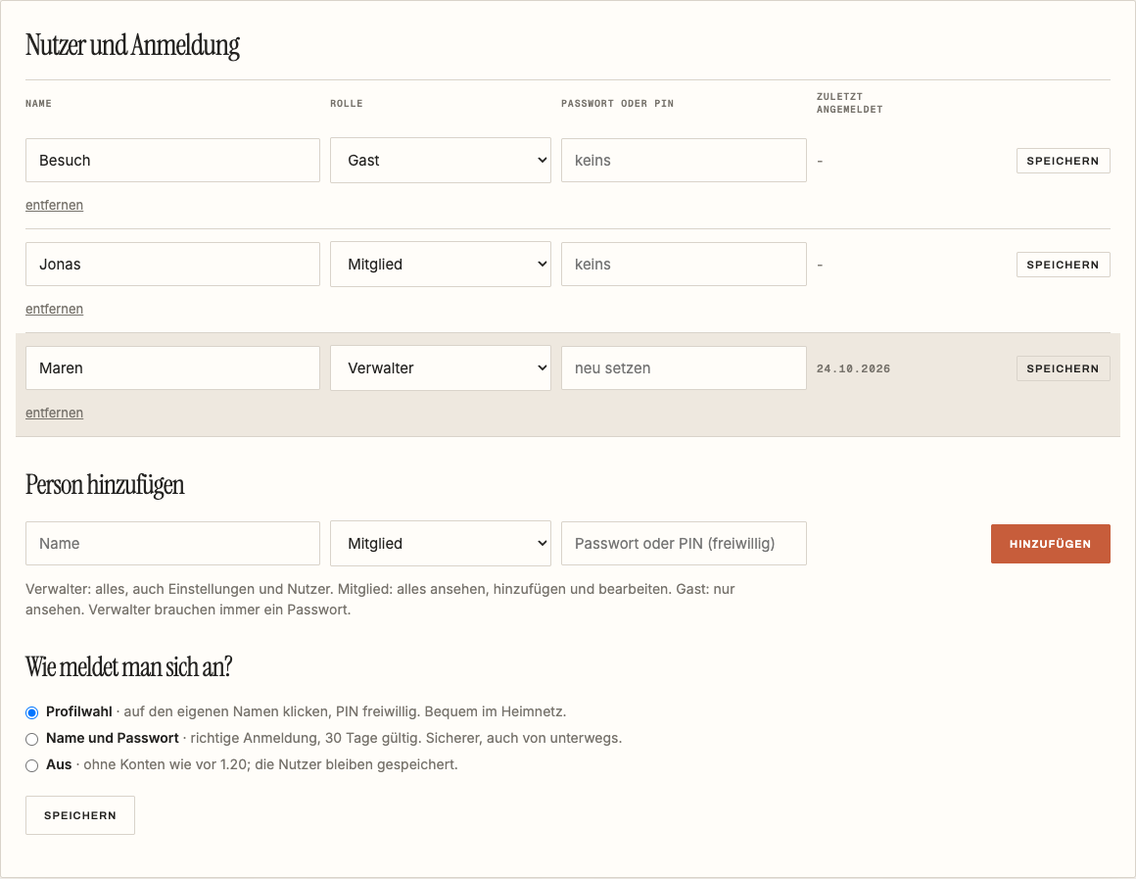
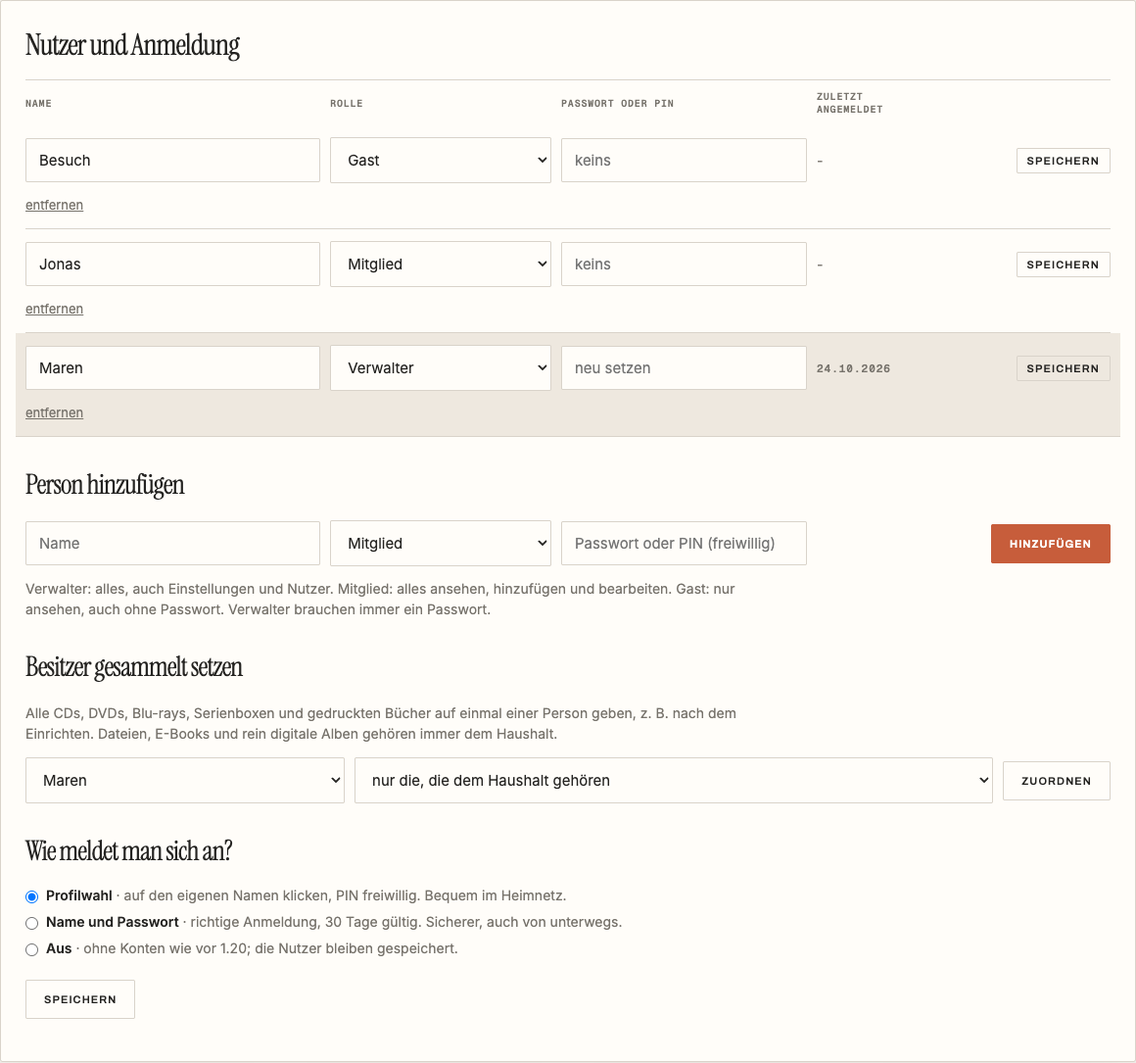
MediaDB 1.22.2 – Besitzer nur bei Physischem, Gast ohne Passwort
Besitzer gibt es nur noch bei CD, DVD, Blu-ray, 4K, Serienbox und
gedrucktem Buch; Dateien, E-Books und rein digitale Alben gehören dem
Haushalt (einmalige Umstellung beim Start). Neuer Bereich „Besitzer
gesammelt setzen“ in den Einstellungen. Gäste ohne Passwort auch bei
„Name und Passwort“ (Knopf auf der Anmeldeseite, nur lesen).

diff --git a/app/templates/settings.html b/app/templates/settings.html
@@ -138,7 +138,7 @@ S.querySelectorAll('.nasfrom').forEach(function(sel){sel.onchange=function(){var
 
 <section class="card settings" id="nutzer">
  <h2>{{ _("Nutzer und Anmeldung") }}</h2>
- {% if message and part == 'users' %}<div class="{{ 'ok' if message in ('Gespeichert.', 'Nutzer hinzugefügt.', 'Nutzer entfernt.', 'Konten eingeschaltet. Du bist als Verwalter angemeldet.') else 'warn' }}">{{ _(message) }}</div>{% endif %}
+ {% if message and part == 'users' %}<div class="{{ 'ok' if message in ('Gespeichert.', 'Nutzer hinzugefügt.', 'Nutzer entfernt.', 'Konten eingeschaltet. Du bist als Verwalter angemeldet.', 'Besitzer gespeichert.') else 'warn' }}">{{ _(message) }}</div>{% endif %}
  {% if not people %}
  <p class="help">{{ _("Mehrere Personen im Haushalt? Lege dich zuerst selbst als Verwalter an. Danach fügst du weitere Personen hinzu (Mitglied oder Gast) und wählst, wie man sich anmeldet. Die Sammlung bleibt, wie sie ist; alle sehen weiterhin alles.") }}</p>
  <form method="post" action="{{ base }}/settings/users/setup" class="userform">
@@ -159,12 +159,12 @@ S.querySelectorAll('.nasfrom').forEach(function(sel){sel.onchange=function(){var
     <select name="role" aria-label="{{ _('Rolle') }}">{% for r, l in ROLES.items() %}<option value="{{ r }}"{% if r == p.role %} selected{% endif %}>{{ _(l) }}</option>{% endfor %}</select>
     <input name="password" type="password" placeholder="{{ _('neu setzen') if p.secret else _('keins') }}" aria-label="{{ _('Passwort oder PIN') }}" autocomplete="new-password">
     <span class="muted">{{ p.last_login|fdate if p.last_login else '–' }}</span>
-    <span class="rowbtns">{% if p.secret and p.role != 'admin' and accounts_mode != 'password' %}<label class="checkbox"><input type="checkbox" name="remove_pw" value="1"> {{ _("PIN entfernen") }}</label>{% endif %}<button class="quiet small">{{ _("Speichern") }}</button></span>
+    <span class="rowbtns">{% if p.secret and p.role != 'admin' and (accounts_mode != 'password' or p.role == 'guest') %}<label class="checkbox"><input type="checkbox" name="remove_pw" value="1"> {{ _("PIN entfernen") }}</label>{% endif %}<button class="quiet small">{{ _("Speichern") }}</button></span>
    </form>
    <form method="post" action="{{ base }}/settings/users/{{ p.id }}/delete" class="userdel" onsubmit="return confirm({{ _t('§ entfernen? Die Sammlung bleibt unverändert.', p.name)|tojson|forceescape }})"><button class="linkbtn">{{ _("entfernen") }}</button></form>
   </div>{% endfor %}
  </div>
- {% set nopw = people|rejectattr('secret')|map(attribute='name')|list %}
+ {% set nopw = people|rejectattr('secret')|rejectattr('role', 'equalto', 'guest')|map(attribute='name')|list %}
  {% if accounts_mode == 'password' and nopw %}<div class="warn">{{ _("Ohne Passwort können sich bei „Name und Passwort“ nicht anmelden: §", nopw|join(', ')) }}</div>{% endif %}
  {% if accounts_mode == 'profiles' and public and nopw %}<p class="hint">{{ _("Zugriff aus dem Internet ist erlaubt: Von dort brauchen alle eine PIN. Profile ohne PIN gehen nur im Heimnetz.") }}</p>{% endif %}
  <h3>{{ _("Person hinzufügen") }}</h3>
@@ -174,7 +174,14 @@ S.querySelectorAll('.nasfrom').forEach(function(sel){sel.onchange=function(){var
   <input name="password" type="password" placeholder="{{ _('Passwort oder PIN') }}{% if accounts_mode != 'password' %} {{ _('(freiwillig)') }}{% endif %}" aria-label="{{ _('Passwort oder PIN') }}" autocomplete="new-password">
   <button>{{ _("Hinzufügen") }}</button>
  </form>
- <p class="help">{{ _("Verwalter: alles, auch Einstellungen und Nutzer. Mitglied: alles ansehen, hinzufügen und bearbeiten. Gast: nur ansehen. Verwalter brauchen immer ein Passwort.") }}</p>
+ <p class="help">{{ _("Verwalter: alles, auch Einstellungen und Nutzer. Mitglied: alles ansehen, hinzufügen und bearbeiten. Gast: nur ansehen, auch ohne Passwort. Verwalter brauchen immer ein Passwort.") }}</p>
+ <h3>{{ _("Besitzer gesammelt setzen") }}</h3>
+ <p class="help">{{ _("Alle CDs, DVDs, Blu-rays, Serienboxen und gedruckten Bücher auf einmal einer Person geben, z. B. nach dem Einrichten. Dateien, E-Books und rein digitale Alben gehören immer dem Haushalt.") }}</p>
+ <form method="post" action="{{ base }}/settings/users/assign" class="assignrow" onsubmit="return confirm({{ _t('Besitzer für alle gewählten Exemplare ändern?')|tojson|forceescape }})">
+  <select name="owner" aria-label="{{ _('Besitzer') }}">{% for p in people if p.role != 'guest' %}<option value="{{ p.id }}"{% if me and me.id == p.id %} selected{% endif %}>{{ p.name }}</option>{% endfor %}</select>
+  <select name="scope" aria-label="{{ _('Welche Exemplare') }}"><option value="unowned">{{ _("nur die, die dem Haushalt gehören") }}</option><option value="all">{{ _("alle, auch die schon jemandem gehören") }}</option></select>
+  <button class="quiet">{{ _("Zuordnen") }}</button>
+ </form>
  <h3>{{ _("Wie meldet man sich an?") }}</h3>
  <form method="post" action="{{ base }}/settings/users/mode" class="modepick">
   <label class="checkbox"><input type="radio" name="mode" value="profiles"{% if accounts_mode == 'profiles' %} checked{% endif %}> <span><strong>{{ _("Profilwahl") }}</strong> · {{ _("auf den eigenen Namen klicken, PIN freiwillig. Bequem im Heimnetz.") }}</span></label>

diff --git a/app/templates/detail.html b/app/templates/detail.html
@@ -1,1 +1,1 @@
-{% extends 'base.html' %}{% from '_owner.html' import owner_pick with context %}{% from '_next.html' import next_btn with context %}{% from '_lend.html' import lend_box with context %}{% block content %}<p class="eyebrow">{{ _("MediaDB / Archiv") }} · <a href="{{ base }}/media?l={{ back_l|urlencode }}">{{ _("← Interpreten §", back_l) }}</a></p>{% if message %}<div class="ok">{{ _(message) }}</div>{% endif %}<div class="detailgrid"><div>{% if item.cover_path %}<img class="cover" src="{{ base }}/covers/{{item.cover_path}}" alt="Cover {{item.title}}">{% else %}<div class="cover ph">{{ _("Kein Cover") }}</div>{% endif %}<div class="actions"><form method="post" action="{{ base }}/media/{{item.id}}/refresh"><button>{{ _("Von MusicBrainz aktualisieren") }}</button></form><form method="post" action="{{ base }}/media/{{item.id}}/cover"><button>{{ _("Cover neu laden") }}</button></form><form method="get" action="{{ base }}/media/{{item.id}}/match"><button>{{ _("Ähnliche Ausgabe suchen") }}</button></form></div></div><div>{% if item.artist %}<h1>{{item.artist}}</h1><h2 class="subtitle">{{item.title}}</h2>{% else %}<h1>{{item.title}}</h1>{% endif %}{{ next_btn('music', item.id, music_next_at(item)) }}<dl class="facts">{% for label,val in [('Besitz',_(OWN.get(item.ownership or 'cd'))),('Dateiformate',item.file_formats),('Jahr (CD)',item.year),('Erschienen',item.release_date),('Label',item.label),('Katalognr.',item.catalog_number),('Format',item.format),('Land',item.country),('Genre',item.genre),('Styles',item.styles),('Barcode',item.barcode)] if val %}<dt>{{ _(label) }}</dt><dd>{{val}}</dd>{% endfor %}</dl>{% if accounts_on %}<p class="ownerline"><span class="muted">{{ _("Besitzer") }}</span> {{ owner_pick(base ~ '/media/' ~ item.id ~ '/owner', item.owner_id) }}</p>{% endif %}{{ lend_box('music', item.id, item.title, item.artist) }}<h2>{{ _("Tracks") }}</h2><ol>{% for t in item.tracks %}<li>{{t.title}}{% if t.duration %} ({{t.duration}}){% endif %}</li>{% else %}<li>{{ _("Keine Trackliste") }}</li>{% endfor %}</ol>{% if item.notes %}<p>{{item.notes}}</p>{% endif %}<div class="actions"><form method="get" action="{{ base }}/media/{{item.id}}/edit"><button>{{ _("Bearbeiten") }}</button></form><form method="post" action="{{ base }}/media/{{item.id}}/delete" onsubmit="return confirm({{ _('Eintrag wirklich löschen?')|tojson|forceescape }})"><button>{{ _("Löschen") }}</button></form></div></div></div>{% endblock %}
+{% extends 'base.html' %}{% from '_owner.html' import owner_pick with context %}{% from '_next.html' import next_btn with context %}{% from '_lend.html' import lend_box with context %}{% block content %}<p class="eyebrow">{{ _("MediaDB / Archiv") }} · <a href="{{ base }}/media?l={{ back_l|urlencode }}">{{ _("← Interpreten §", back_l) }}</a></p>{% if message %}<div class="ok">{{ _(message) }}</div>{% endif %}<div class="detailgrid"><div>{% if item.cover_path %}<img class="cover" src="{{ base }}/covers/{{item.cover_path}}" alt="Cover {{item.title}}">{% else %}<div class="cover ph">{{ _("Kein Cover") }}</div>{% endif %}<div class="actions"><form method="post" action="{{ base }}/media/{{item.id}}/refresh"><button>{{ _("Von MusicBrainz aktualisieren") }}</button></form><form method="post" action="{{ base }}/media/{{item.id}}/cover"><button>{{ _("Cover neu laden") }}</button></form><form method="get" action="{{ base }}/media/{{item.id}}/match"><button>{{ _("Ähnliche Ausgabe suchen") }}</button></form></div></div><div>{% if item.artist %}<h1>{{item.artist}}</h1><h2 class="subtitle">{{item.title}}</h2>{% else %}<h1>{{item.title}}</h1>{% endif %}{{ next_btn('music', item.id, music_next_at(item)) }}<dl class="facts">{% for label,val in [('Besitz',_(OWN.get(item.ownership or 'cd'))),('Dateiformate',item.file_formats),('Jahr (CD)',item.year),('Erschienen',item.release_date),('Label',item.label),('Katalognr.',item.catalog_number),('Format',item.format),('Land',item.country),('Genre',item.genre),('Styles',item.styles),('Barcode',item.barcode)] if val %}<dt>{{ _(label) }}</dt><dd>{{val}}</dd>{% endfor %}</dl>{% if accounts_on and (item.ownership or 'cd') in ('cd', 'cd_digital') %}<p class="ownerline"><span class="muted">{{ _("Besitzer") }}</span> {{ owner_pick(base ~ '/media/' ~ item.id ~ '/owner', item.owner_id) }}</p>{% endif %}{{ lend_box('music', item.id, item.title, item.artist) }}<h2>{{ _("Tracks") }}</h2><ol>{% for t in item.tracks %}<li>{{t.title}}{% if t.duration %} ({{t.duration}}){% endif %}</li>{% else %}<li>{{ _("Keine Trackliste") }}</li>{% endfor %}</ol>{% if item.notes %}<p>{{item.notes}}</p>{% endif %}<div class="actions"><form method="get" action="{{ base }}/media/{{item.id}}/edit"><button>{{ _("Bearbeiten") }}</button></form><form method="post" action="{{ base }}/media/{{item.id}}/delete" onsubmit="return confirm({{ _('Eintrag wirklich löschen?')|tojson|forceescape }})"><button>{{ _("Löschen") }}</button></form></div></div></div>{% endblock %}

diff --git a/app/templates/films_detail.html b/app/templates/films_detail.html
@@ -55,7 +55,7 @@
 {% for k in copies %}<tr><td><span class="badge">{{ _(kinds.get(k.kind, k.kind)) }}</span></td><td>{{ k.edition or '' }}{% if k.region %} <span class="muted">{{ k.region }}</span>{% endif %}</td>
 <td>{% if k.path %}<code class="path">{{ k.path }}</code>{% elif k.barcode %}<code>{{ k.barcode }}</code>{% endif %}{% if k.notes %}<br><span class="muted">{{ k.notes }}</span>{% endif %}</td>
 <td class="tech">{{ [k.resolution, k.hdr, k.video_codec, k.container, ((k.duration_s//60)|string ~ ' min') if k.duration_s else '', ((k.size_bytes/1073741824)|round(1)|string ~ ' GB') if k.size_bytes and k.size_bytes > 100000000 else '']|select|join(' · ') }}{% if k.audio %}<br><span class="muted">{{ _("Ton:") }} {{ k.audio }}</span>{% endif %}{% if k.subtitles %}<br><span class="muted">{{ _("Untertitel:") }} {{ k.subtitles }}</span>{% endif %}</td>
-{% if accounts_on %}<td>{{ owner_pick(base ~ '/films/copies/' ~ k.id ~ '/owner', k.owner_id) }}</td>{% endif %}
+{% if accounts_on %}<td>{% if k.kind != 'file' and not k.path %}{{ owner_pick(base ~ '/films/copies/' ~ k.id ~ '/owner', k.owner_id) }}{% else %}<span class="muted small">{{ _("Haushalt") }}</span>{% endif %}</td>{% endif %}
 <td><form method="post" action="{{ base }}/films/copies/{{ k.id }}/delete" onsubmit="return confirm({{ _t('Exemplar entfernen?')|tojson|forceescape }})"><button class="quiet small">{{ _("entfernen") }}</button></form></td></tr>{% endfor %}</table></div>
 {% else %}<p class="muted">{{ _("Noch kein Exemplar eingetragen.") }}</p>{% endif %}
 <details class="card"><summary>{{ _("Exemplar hinzufügen") }}</summary>

diff --git a/app/templates/books_detail.html b/app/templates/books_detail.html
@@ -67,7 +67,7 @@
 <h2 id="exemplare">{{ _("Exemplare") }}</h2>
 {% if copies %}<div class="tablewrap"><table class="copies">{% for k in copies %}<tr><td><span class="badge">{{ _(kinds.get(k.kind,k.kind)) }}</span>{% if k.file_format %} <span class="badge">{{ k.file_format }}</span>{% endif %}</td>
 <td>{% if k.path %}<code class="path">{{ host_label(k.path) }}</code>{% endif %}{% if k.isbn %}<code>{{ k.isbn|isbn }}</code>{% endif %} {{ k.edition or '' }}{% if k.duration_s %} · {{ k.duration_s|hours }}{% endif %}{% if k.size_bytes %} · {{ (k.size_bytes / 1048576)|round(1) }} MB{% endif %}</td>
-{% if accounts_on %}<td>{{ owner_pick(base ~ '/books/copies/' ~ k.id ~ '/owner', k.owner_id) }}</td>{% endif %}
+{% if accounts_on %}<td>{% if k.kind != 'ebook' and not k.path %}{{ owner_pick(base ~ '/books/copies/' ~ k.id ~ '/owner', k.owner_id) }}{% else %}<span class="muted small">{{ _("Haushalt") }}</span>{% endif %}</td>{% endif %}
 <td><form method="post" action="{{ base }}/books/copies/{{ k.id }}/delete" onsubmit="return confirm({{ _t('Exemplar entfernen?')|tojson|forceescape }})"><button class="quiet small">{{ _("entfernen") }}</button></form></td></tr>{% endfor %}</table></div>{% else %}<p class="muted">{{ _("Kein Exemplar eingetragen.") }}</p>{% endif %}
 <details class="card"><summary>{{ _("Exemplar hinzufügen") }}</summary>
 <form method="post" action="{{ base }}/books/{{ b.id }}/copies"><input type="hidden" name="anchor" value="exemplare">

diff --git a/app/templates/login.html b/app/templates/login.html
@@ -21,6 +21,7 @@
 <label>{{ _("Name") }}<input name="name" autocomplete="username" autofocus required></label>
 <label>{{ _("Passwort") }}<input type="password" name="password" autocomplete="current-password" required></label>
 <button>{{ _("Anmelden") }}</button></form>
+{% for g in people if g.role == 'guest' and not g.needs %}<form method="post" action="{{ base }}/login" class="guestlogin"><input type="hidden" name="uid" value="{{ g.id }}"><input type="hidden" name="next" value="{{ next }}"><button class="quiet">{{ _("Als „§“ ansehen, ohne Passwort (nur lesen)", g.name) }}</button></form>{% endfor %}
 {% else %}
 <h1>{{ _("*Anmelden*") }}</h1>
 <p class="intro">{{ _("Diese Sammlung ist mit einem Passwort geschützt.") }}</p>

diff --git a/static/style.css b/static/style.css
@@ -319,3 +319,5 @@ nav a.navhelp:not(.brand){display:inline-flex;align-items:center;justify-content
 .ownerpick{margin:0}.ownerpick select{margin:0;padding:6px 8px;font-size:13px;width:auto;min-width:9em}.ownername{display:none;font-size:13px}.guest .ownername{display:inline}
 .ownerline{display:flex;gap:12px;align-items:center;margin:14px 0}
 .seenby{margin:8px 0 0;text-transform:none;letter-spacing:0;font:400 13px Inter,sans-serif}
+.guestlogin{margin:18px 0 0}.guestlogin button{margin:0}
+.assignrow{display:grid;grid-template-columns:minmax(0,1fr) minmax(0,2fr) auto;gap:10px;align-items:center;margin:12px 0}.assignrow select,.assignrow button{margin:0}@media(max-width:700px){.assignrow{grid-template-columns:1fr}}

diff --git a/app/main.py b/app/main.py
@@ -27,7 +27,7 @@ engine=create_engine(DB_URL, connect_args={'check_same_thread':False,'timeout':1
 Session=sessionmaker(bind=engine); Base=declarative_base()
 class Medium(Base):
  __tablename__='media'
- id=Column(Integer,primary_key=True); barcode=Column(String,index=True,unique=True); title=Column(String,nullable=False); artist=Column(String); artist_sort=Column(String); artist_mbid=Column(String); year=Column(String); date=Column(String); release_date=Column(String); ownership=Column(String); file_formats=Column(String); country=Column(String); label=Column(String); catalog_number=Column(String); format=Column(String); media_count=Column(Integer); disc_count=Column(Integer); track_count=Column(Integer); status=Column(String); packaging=Column(String); language=Column(String); script=Column(String); release_mbid=Column(String); release_group_mbid=Column(String); release_group_type=Column(String); asin=Column(String); annotation=Column(Text); disambiguation=Column(String); quality=Column(String); genre=Column(Text); genres=Column(Text); tags=Column(Text); styles=Column(Text); notes=Column(Text); cover_path=Column(String); cover_url=Column(String); source=Column(String); source_id=Column(String); created_at=Column(DateTime,default=datetime.utcnow); raw_json=Column(Text); next_at=Column(String); owner_id=Column(Integer,default=lambda: users.current_id())  # next_at: "Als Naechstes" vorgemerkt am (seit 1.11); owner_id: Besitzer, leer = Haushalt (seit 1.21)
+ id=Column(Integer,primary_key=True); barcode=Column(String,index=True,unique=True); title=Column(String,nullable=False); artist=Column(String); artist_sort=Column(String); artist_mbid=Column(String); year=Column(String); date=Column(String); release_date=Column(String); ownership=Column(String); file_formats=Column(String); country=Column(String); label=Column(String); catalog_number=Column(String); format=Column(String); media_count=Column(Integer); disc_count=Column(Integer); track_count=Column(Integer); status=Column(String); packaging=Column(String); language=Column(String); script=Column(String); release_mbid=Column(String); release_group_mbid=Column(String); release_group_type=Column(String); asin=Column(String); annotation=Column(Text); disambiguation=Column(String); quality=Column(String); genre=Column(Text); genres=Column(Text); tags=Column(Text); styles=Column(Text); notes=Column(Text); cover_path=Column(String); cover_url=Column(String); source=Column(String); source_id=Column(String); created_at=Column(DateTime,default=datetime.utcnow); raw_json=Column(Text); next_at=Column(String); owner_id=Column(Integer,default=lambda ctx: users.current_id() if (ctx.get_current_parameters().get('ownership') or 'cd') in ('cd','cd_digital') else None)  # next_at: "Als Naechstes" vorgemerkt am (seit 1.11); owner_id: Besitzer, leer = Haushalt (seit 1.21)
  tracks=relationship('Track',back_populates='medium',cascade='all, delete-orphan',order_by='Track.disc_number,Track.position')
 class Track(Base):
  __tablename__='tracks'; id=Column(Integer,primary_key=True); medium_id=Column(Integer,ForeignKey('media.id')); position=Column(Integer); disc_number=Column(Integer); number=Column(String); title=Column(String); length_ms=Column(Integer); duration=Column(String); recording_mbid=Column(String); artist=Column(String); medium=relationship('Medium',back_populates='tracks')
@@ -686,8 +686,9 @@ def _safe_next(n):
  return n if n.startswith('/') and not n.startswith('//') and '\\' not in n else '/media'
 def _public(request): return bool(request.scope.get('state',{}).get('public'))
 def _needs_secret(u,request):
- """Bei der Profilwahl ist die PIN freiwillig, von oeffentlichen Adressen aber immer noetig."""
- return users.mode()=='password' or bool(u['secret']) or _public(request)
+ """Bei der Profilwahl ist die PIN freiwillig, von oeffentlichen Adressen aber immer noetig. Gaeste ohne Passwort kommen
+ auch bei "Name und Passwort" im Heimnetz ohne hinein (nur lesen)."""
+ return (users.mode()=='password' and u['role']!='guest') or bool(u['secret']) or _public(request)
 @app.get('/login',response_class=HTMLResponse)
 def login_page(request:Request,next:str='/media',error:str='',u:int=0):
  if users.accounts_on():
@@ -700,7 +701,8 @@ def login_page(request:Request,next:str='/media',error:str='',u:int=0):
 def login(request:Request,password:str=Form(''),next:str=Form('/media'),uid:int=Form(0),name:str=Form('')):
  nxt=_safe_next(next)
  if users.accounts_on():
-  if users.mode()=='profiles': u=users.get(uid)
+  guest=users.get(uid) if uid else None
+  if users.mode()=='profiles' or (guest and guest['role']=='guest'): u=users.get(uid)
   else: u=users.by_name(name)
   if not u or (_needs_secret(u,request) and not users.secret_ok(u,password)):
    time.sleep(1.5); return RedirectResponse('/login?'+urlencode({'next':nxt,'error':'1','u':uid or ''}),303)
@@ -1402,12 +1404,18 @@ def export(request:Request,view:str='all',format:str='xlsx'):
  for r in rows: ws.append(r)
  out=BytesIO(); wb.save(out); out.seek(0); return StreamingResponse(out,media_type='application/vnd.openxmlformats-officedocument.spreadsheetml.sheet',headers={'Content-Disposition':'attachment; filename=mediadb-musik.xlsx'})
 # ---------------- Besitzer (seit 1.21): beim ersten Verwalter gehoert ihm alles, was noch keinen Besitzer hat ----------------
-def _claim_owners(uid):
+def assign_physical(uid,only_unowned=True):
+ """Alle physischen Exemplare (CD, DVD, Blu-ray, 4K, Boxen, gedruckte Buecher) einer Person geben; only_unowned: nur die,
+ die noch dem Haushalt gehoeren. Offene Verleihvorgaenge ziehen mit. Liefert die Anzahl."""
  from . import films_db as _F, series_db as _S, books_db as _B, loans as _L
- for m in (_F,_S,_B):
-  with m.db() as c: c.execute('UPDATE copies SET owner_id=? WHERE owner_id IS NULL',(uid,))
- with _L.db() as c: c.execute('UPDATE loans SET owner_id=? WHERE owner_id IS NULL',(uid,))
- with engine.begin() as conn: conn.execute(text('UPDATE media SET owner_id=:u WHERE owner_id IS NULL'),{'u':uid})
+ cond='' if not only_unowned else ' AND owner_id IS NULL'; n=0
+ for m,phys in ((_F,"kind<>'file' AND path IS NULL"),(_S,'1'),(_B,"kind<>'ebook' AND path IS NULL")):
+  with m.db(plain=True) as c: n+=c.execute(f'UPDATE copies SET owner_id=? WHERE {phys}{cond}',(uid,)).rowcount
+ with engine.begin() as conn: n+=conn.execute(text(f"UPDATE media SET owner_id=:u WHERE ownership IN ('cd','cd_digital'){cond}"),{'u':uid}).rowcount
+ with _L.db() as c: c.execute('UPDATE loans SET owner_id=? WHERE returned_at IS NULL'+cond,(uid,))
+ return n
+users.ASSIGN_PHYSICAL=assign_physical
+def _claim_owners(uid): assign_physical(uid,True)
 def _claim_personal(uid):
  """Seit 1.22: bisherige Werte (gesehen, Bewertung, gelesen, Als Naechstes, Merkliste) werden die des ersten Verwalters."""
  from . import films_db as _F, series_db as _S, books_db as _B
@@ -1435,5 +1443,14 @@ def seen_by(area,item_id):
  return sorted(((users.owner_name(u),w) for u,w in rows if users.owner_name(u)),key=lambda x:x[0].lower())
 templates.env.globals['seen_by']=seen_by
 users.ON_FIRST_ADMIN+=[('owners_claimed',_claim_owners),('personal_claimed',_claim_personal)]
+def _digital_household():
+ """Seit 1.22.2 einmalig: Dateien, E-Books und rein digitale Alben gehoeren dem Haushalt (Besitzer nur bei Physischem)."""
+ from . import films_db as _F, books_db as _B
+ with _F.db(plain=True) as c: c.execute("UPDATE copies SET owner_id=NULL WHERE kind='file' OR path IS NOT NULL")
+ with _B.db(plain=True) as c: c.execute("UPDATE copies SET owner_id=NULL WHERE kind='ebook' OR path IS NOT NULL")
+ with engine.begin() as conn: conn.execute(text("UPDATE media SET owner_id=NULL WHERE ownership='digital'"))
+try:
+ if users.once('digital_household'): _digital_household()
+except Exception: logging.exception('Umstellung auf Haushalt fehlgeschlagen')
 try: users.claim_unowned()  # Installationen, die schon Konten haben (1.20)
 except Exception: logging.exception('Besitzer konnten nicht uebernommen werden')

diff --git a/app/settings_web.py b/app/settings_web.py
@@ -129,7 +129,7 @@ async def users_setup(request):
 
 async def users_add(request):
     f, _ = await _form(request)
-    if U.mode() == 'password' and not f.get('password'):
+    if U.mode() == 'password' and not f.get('password') and f.get('role') != 'guest':
         return _users_back('Bei „Name und Passwort“ braucht jeder ein Passwort.')
     if f.get('role') == 'admin' and not f.get('password'):
         return _users_back('Verwalter und alle bei „Name und Passwort“ brauchen ein Passwort.')
@@ -151,6 +151,16 @@ async def users_save(request):
 async def users_delete(request):
     err = U.delete(int(request.path_params['uid']))
     return _users_back(err or 'Nutzer entfernt.')
+
+
+async def users_assign(request):
+    """Physische Exemplare gesammelt einer Person geben (z. B. einmalig nach dem Einrichten)."""
+    f, _ = await _form(request)
+    ok, uid = U.parse_owner(f.get('owner', ''))
+    if not ok or uid is None or not U.ASSIGN_PHYSICAL:
+        return _users_back('Unbekannter Besitzer.')
+    n = await run_in_threadpool(U.ASSIGN_PHYSICAL, uid, f.get('scope') != 'all')
+    return _users_back('Besitzer gespeichert.')
 
 
 async def users_mode(request):
@@ -284,6 +294,6 @@ routes = [Route('/', page), Route('/save', save, methods=['POST']), Route('/test
           Route('/nas/test', nas_test, methods=['POST']), Route('/nas/status', nas_status),
           Route('/nas/delete', nas_delete, methods=['POST']),
           Route('/users/setup', users_setup, methods=['POST']), Route('/users/add', users_add, methods=['POST']),
-          Route('/users/mode', users_mode, methods=['POST']), Route('/users/{uid:int}/save', users_save, methods=['POST']),
+          Route('/users/mode', users_mode, methods=['POST']), Route('/users/assign', users_assign, methods=['POST']), Route('/users/{uid:int}/save', users_save, methods=['POST']),
           Route('/users/{uid:int}/delete', users_delete, methods=['POST'])]
 app = Starlette(routes=routes)

diff --git a/app/users.py b/app/users.py
@@ -35,6 +35,7 @@ CREATE TABLE IF NOT EXISTS users(
   secret TEXT, last_login TEXT, created_at TEXT);
 CREATE TABLE IF NOT EXISTS meta(key TEXT PRIMARY KEY, value TEXT);
 """
+ASSIGN_PHYSICAL = None  # main.py: physische Exemplare gesammelt einer Person geben (Einstellungen -> Nutzer)
 ON_FIRST_ADMIN = []  # main.py: (Name, Funktion), die beim ersten Verwalter Vorhandenes einmalig uebernehmen (z. B. owner_id leer -> er)
 
 
@@ -156,7 +157,8 @@ def update(uid, name=None, role=None, pw=None, remove_pw=False):
             return 'Passwort oder PIN braucht mindestens 4 Zeichen.'
         fields['secret'] = hash_secret(pw)
     elif remove_pw:
-        if mode() == 'password' or (fields.get('role', u['role']) == 'admin'):
+        role = fields.get('role', u['role'])
+        if role == 'admin' or (mode() == 'password' and role != 'guest'):
             return 'Verwalter und alle bei „Name und Passwort“ brauchen ein Passwort.'
         fields['secret'] = None
     if not fields:
@@ -273,6 +275,21 @@ def parse_owner(value):
 def owner_name(uid):
     u = get(uid) if uid else None
     return u['name'] if u else ''
+
+
+def physical_copy(kind, path, digital_kinds=('file', 'ebook')):
+    """Seit 1.22.2: Besitzer gibt es nur bei physischen Exemplaren (CD, DVD, Blu-ray, 4K, Box, gedrucktes Buch, Hoerbuch-CD).
+    Dateien, E-Books und rein digitale Alben gehoeren immer dem Haushalt."""
+    return kind not in digital_kinds and not path
+
+
+def once(name):
+    """True genau beim ersten Aufruf mit diesem Namen (einmalige Umstellungen, gemerkt in nutzer.db)."""
+    with db() as c:
+        if c.execute('SELECT 1 FROM meta WHERE key=?', (name,)).fetchone():
+            return False
+        c.execute('INSERT OR REPLACE INTO meta(key, value) VALUES(?, ?)', (name, now()))
+    return True
 
 
 def claim_unowned():

diff --git a/app/books_db.py b/app/books_db.py
@@ -262,7 +262,8 @@ def add_copy(c, bid, data):
                      'VALUES(?,?,?,?,?,?,?,?,?,?,?)',
                      (bid, kind, norm_isbn(data.get('isbn')) or None, data.get('edition') or None, data.get('notes') or None,
                       data.get('path') or None, data.get('file_format') or None, data.get('size_bytes'), data.get('duration_s'),
-                      data['owner_id'] if 'owner_id' in data else U.current_id(), now())).lastrowid
+                      data['owner_id'] if 'owner_id' in data else (U.current_id() if U.physical_copy(kind, data.get('path')) else None),
+                      now())).lastrowid
 
 
 def copies_of(c, bid):

diff --git a/app/films_db.py b/app/films_db.py
@@ -239,8 +239,8 @@ def cast_list(row, n=None):
 # ---------------------------------------------------------------- Exemplare
 def add_copy(c, fid, data):
     d = {k: data.get(k) for k in COPY_FIELDS if data.get(k) not in (None, '')}
-    if 'owner_id' not in data:
-        d['owner_id'] = U.current_id()
+    if 'owner_id' not in data:  # Besitzer nur bei physischen Exemplaren, Dateien gehoeren dem Haushalt
+        d['owner_id'] = U.current_id() if U.physical_copy(d['kind'], d.get('path')) else None
     d['kind'] = d.get('kind') if d.get('kind') in KINDS else 'dvd'
     d['film_id'] = fid
     d['created_at'] = now()

diff --git a/docs/ANLEITUNG.md b/docs/ANLEITUNG.md
@@ -2,7 +2,7 @@
 
 MediaDB ist eine **private Mediendatenbank für das eigene Heimnetz** mit vier Bereichen: **Musik, Filme, Serien und Bücher**, dazu **Merkliste**, **Als Nächstes** und **Verliehen an …**. Du erfasst CDs, DVDs, Blu-rays, Bücher und deine Dateien (Musik, Filme, Serien, E-Books, Hörbücher), die App ergänzt Titellisten, Cover, Filmdaten, Episodenführer und Buchangaben aus freien Internetquellen. Bedient wird alles im Browser, am Rechner wie am Handy. Die Daten bleiben bei dir.
 
-Diese Anleitung beschreibt MediaDB 1.22.1. Welche Version läuft, steht unten auf jeder Seite. Du findest sie auch in MediaDB selbst: über das **?** oben in der Leiste oder den Link **„Anleitung“** unten auf jeder Seite, passend zur installierten Version und ohne Internet. Eine englische Fassung gibt es in [MANUAL.md](MANUAL.md); die App zeigt sie bei allen Oberflächensprachen außer Deutsch.
+Diese Anleitung beschreibt MediaDB 1.22.2. Welche Version läuft, steht unten auf jeder Seite. Du findest sie auch in MediaDB selbst: über das **?** oben in der Leiste oder den Link **„Anleitung“** unten auf jeder Seite, passend zur installierten Version und ohne Internet. Eine englische Fassung gibt es in [MANUAL.md](MANUAL.md); die App zeigt sie bei allen Oberflächensprachen außer Deutsch.
 
 **Inhalt:** [1. Überblick](#1-überblick) · [2. Installation](#2-installation) · [3. Einstellungen](#3-einstellungen) · [4. Bedienung allgemein](#4-bedienung-allgemein) · [5. Musik](#5-musik) · [6. Filme](#6-filme) · [7. Serien](#7-serien) · [8. Merkliste](#8-merkliste) · [9. Bücher](#9-bücher) · [10. Verliehen an …](#10-verliehen-an) · [11. Mediatheken](#11-mediatheken) · [12. Dateien von NAS und Mac](#12-dateien-von-nas-und-mac) · [13. Sichern und Updates](#13-sichern-und-updates) · [14. Woher kommen die Daten?](#14-woher-kommen-die-daten) · [15. Grenzen](#15-grenzen) · [16. Fehlersuche](#16-fehlersuche)
 
@@ -55,13 +55,15 @@ Das **Zahnrad ⚙** oben öffnet die Einstellungen. Änderungen gelten sofort, e
 - **Neue Version?** zeigt, welche Version läuft, welche die neueste ist und wann zuletzt nachgesehen wurde; mit **„Jetzt nach neuer Version suchen“** sofort prüfen.
 - **Nutzer und Anmeldung:** für mehrere Personen im Haushalt. Zuerst legst du dich selbst als **Verwalter** an (mit Passwort) und wählst, wie man sich anmeldet; danach bist du gleich angemeldet. Weitere Personen fügst du als **Mitglied** (alles ansehen, hinzufügen, bearbeiten) oder **Gast** (nur ansehen) hinzu. Die Einstellungen sieht nur ein Verwalter. Zwei Arten der Anmeldung:
   - **Profilwahl:** Beim Öffnen auf den eigenen Namen klicken, eine PIN ist freiwillig (Verwalter brauchen immer eine). Bequem im Heimnetz.
-  - **Name und Passwort:** richtige Anmeldung, 30 Tage gültig; jeder braucht ein Passwort.
+  - **Name und Passwort:** richtige Anmeldung, 30 Tage gültig; jeder braucht ein Passwort, außer Gästen.
+
+  **Gastzugang:** Eine Person mit der Rolle **Gast** ohne Passwort kann sich alles ansehen, aber nichts hinzufügen, ändern oder bewerten. Bei der Profilwahl klickt man einfach auf ihr Profil, bei „Name und Passwort“ gibt es auf der Anmeldeseite den Knopf **„Als … ansehen, ohne Passwort“**. Von außerhalb des Heimnetzes braucht auch ein Gast ein Passwort.
   
   Oben in der Leiste steht, wer angemeldet ist; ein Klick darauf wechselt das Profil bzw. meldet ab. **„Aus“** schaltet die Konten wieder ab, die Nutzer bleiben gespeichert. Die Sammlung ist für alle dieselbe, aber **jede Person hat ihre eigenen Angaben:** gesehen (auch einzelne Folgen), eigene Bewertung, gelesen, „Als Nächstes“ und die Merkliste. Listen wie „Noch nicht gesehen“ oder „Top 10: Muss ich sehen“ und die Zahlen auf der Startseite gelten für die angemeldete Person. Auf der Seite eines Films oder Buchs steht, wer ihn schon gesehen bzw. gelesen hat („Gesehen von: …“), bei Serien, wie viele Folgen jede Person gesehen hat. Gemeinsam bleiben eigene Listen und Notizen. Beim Einschalten der Konten werden die bisherigen Angaben die des ersten Verwalters; schaltet man die Konten wieder aus, gelten die Angaben von vor den Konten.
 
   ![Gesehen und Bewertung der angemeldeten Person, darunter „Gesehen von“](bilder/gesehen-von.png)
 
-  **Besitzer:** Mit Konten hat jedes Exemplar (DVD, Blu-ray, Datei, Buch, Serienbox) und jedes Musik-Album einen Besitzer. Wer etwas einträgt, wird Besitzer; beim Einschalten der Konten gehört die vorhandene Sammlung dem ersten Verwalter. Auf der Seite des Eintrags lässt sich der Besitzer ändern, auch auf **„Haushalt“** (gemeinsam). In den Listen filtert **„Alle Besitzer · Meine · Haushalt · von …“**, unter „Verliehen“ zeigt jeder Eintrag, wem das Exemplar gehört, mit dem Reiter **„Meine verliehenen“**.
+  **Besitzer:** Mit Konten hat jedes physische Exemplar einen Besitzer: CD, DVD, Blu-ray, 4K, Serienbox und gedrucktes Buch. Dateien, E-Books, Hörbücher aus Ordnern und rein digitale Alben gehören immer dem **Haushalt**. Wer etwas Physisches einträgt, wird Besitzer; beim Einschalten der Konten gehören die vorhandenen Exemplare dem ersten Verwalter. Mit **„Besitzer gesammelt setzen“** (Einstellungen → Nutzer und Anmeldung) gibst du alle physischen Exemplare auf einmal einer Person. Auf der Seite des Eintrags lässt sich der Besitzer ändern, auch auf **„Haushalt“** (gemeinsam). In den Listen filtert **„Alle Besitzer · Meine · Haushalt · von …“**, unter „Verliehen“ zeigt jeder Eintrag, wem das Exemplar gehört, mit dem Reiter **„Meine verliehenen“**.
 
   ![Exemplare mit Besitzer](bilder/besitzer-exemplare.png)
 
